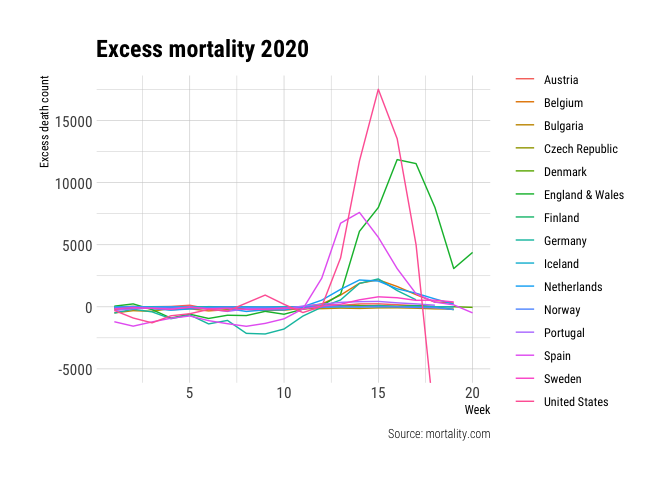
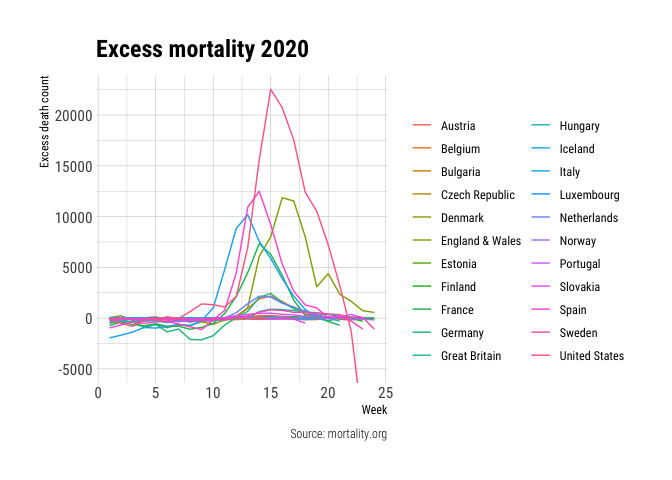
update to HMD article with correct links and recent data

diff --git a/_posts/2020-05-26-Excess-Mortality-in-2020-(COVID-19).md b/_posts/2020-05-26-Excess-Mortality-in-2020-(COVID-19).md
@@ -11,12 +11,15 @@ suspected cases get tested. Another way to measure COVID related deaths
 is to look at official reported **total** deaths. Administrative delays,
 however, make it that reported numbers are only reliable from a few
 weeks in the past. More recent numbers are often missing many deaths.
-The Human Mortality Database ([HMD](www.mortality.com)) provided
+The Human Mortality Database ([HMD](www.mortality.org)) provided
 detailed (yearly) mortality and population data for 41 selected
 countries. Recently, HMD published a dataset containing weekly mortality
 numbers in light of the COVID-19 pandemic. In this article we will
 explore this dataset to obtain insights in excess deaths for different
 countries.
+
+*Note: this article has been updated at the 26th of June. More recent
+data is used which includes more countries.*
 
 ## Load and process data
 
@@ -35,25 +38,17 @@ The data is publicly available and can be loaded into R as
 
 ``` r
 mf_data <- readr::read_csv("https://www.mortality.org/Public/STMF/Outputs/stmf.csv", skip=2)
-mf_data
+knitr::kable(head(mf_data))
 ```
 
-    ## # A tibble: 40,461 x 19
-    ##    CountryCode  Year  Week Sex   D0_14 D15_64 D65_74 D75_84  D85p DTotal   R0_14
-    ##    <chr>       <dbl> <dbl> <chr> <dbl>  <dbl>  <dbl>  <dbl> <dbl>  <dbl>   <dbl>
-    ##  1 AUT          2000     1 m      6.28   184.   211.   237.  176.    814 4.67e-4
-    ##  2 AUT          2000     1 f      5.35   101.   141.   335.  471.   1053 4.18e-4
-    ##  3 AUT          2000     1 b     11.5    285.   355.   573.  643.   1867 4.38e-4
-    ##  4 AUT          2000     2 m      6.58   192.   217.   244.  180.    840 4.89e-4
-    ##  5 AUT          2000     2 f      5.81   109.   141.   335.  471.   1062 4.54e-4
-    ##  6 AUT          2000     2 b     12.2    302.   359.   580.  650.   1902 4.64e-4
-    ##  7 AUT          2000     3 m      7.73   226.   220.   248.  183.    886 5.75e-4
-    ##  8 AUT          2000     3 f      6.11   115.   152.   361.  507.   1141 4.77e-4
-    ##  9 AUT          2000     3 b     13.8    341.   378.   610.  684.   2027 5.25e-4
-    ## 10 AUT          2000     4 m      7.30   214.   217.   245.  181.    864 5.43e-4
-    ## # … with 40,451 more rows, and 8 more variables: R15_64 <dbl>, R65_74 <dbl>,
-    ## #   R75_84 <dbl>, R85p <dbl>, RTotal <dbl>, Split <dbl>, SplitSex <dbl>,
-    ## #   Forecast <dbl>
+| CountryCode | Year | Week | Sex | D0\_14 | D15\_64 | D65\_74 | D75\_84 | D85p | DTotal |    R0\_14 |   R15\_64 |   R65\_74 |   R75\_84 |      R85p |    RTotal | Split | SplitSex | Forecast |
+| :---------- | ---: | ---: | :-- | -----: | ------: | ------: | ------: | ---: | -----: | --------: | --------: | --------: | --------: | --------: | --------: | ----: | -------: | -------: |
+| AUT         | 2000 |    1 | m   |      7 |     183 |     212 |     249 |  163 |    814 | 0.0005204 | 0.0035126 | 0.0376068 | 0.0951375 | 0.2318343 | 0.0109252 |     0 |        0 |        0 |
+| AUT         | 2000 |    1 | f   |      2 |     104 |     141 |     338 |  468 |   1053 | 0.0001562 | 0.0020023 | 0.0195527 | 0.0614423 | 0.2243570 | 0.0132385 |     0 |        0 |        0 |
+| AUT         | 2000 |    1 | b   |      9 |     287 |     353 |     587 |  631 |   1867 | 0.0003428 | 0.0027586 | 0.0274739 | 0.0723052 | 0.2262420 | 0.0121196 |     0 |        0 |        0 |
+| AUT         | 2000 |    2 | m   |      4 |     195 |     195 |     259 |  187 |    840 | 0.0002974 | 0.0037430 | 0.0345912 | 0.0989583 | 0.2659694 | 0.0112741 |     0 |        0 |        0 |
+| AUT         | 2000 |    2 | f   |      6 |     109 |     126 |     312 |  509 |   1062 | 0.0004687 | 0.0020986 | 0.0174727 | 0.0567159 | 0.2440122 | 0.0133516 |     0 |        0 |        0 |
+| AUT         | 2000 |    2 | b   |     10 |     304 |     321 |     571 |  696 |   1902 | 0.0003809 | 0.0029220 | 0.0249834 | 0.0703344 | 0.2495474 | 0.0123468 |     0 |        0 |        0 |
 
 The dataset contains multiple variables for the death counts for
 different age groups (starting with `D`) and the death rate (starting
@@ -82,33 +77,34 @@ mf_data <- mf_data %>%
       DEUTNP = "Germany",
       DNK = "Denmark",
       ESP = "Spain",
+      EST = "Estonia",
       FIN = "Finland",
+      FRATNP = "France",
       GBRTENW = "England & Wales",
+      GBR_SCO = "Great Britain",
+      HUN = "Hungary",
       ISL = "Iceland",
+      ITA = "Italy",
+      LUX = "Luxembourg",
       NLD = "Netherlands",
       NOR = "Norway",
       PRT = "Portugal",
+      SVK = "Slovakia",
       SWE = "Sweden",
       USA = "United States")
   ) %>%
   select(age_group, country, year, sex, week, death_count, death_rate)
-mf_data
+knitr::kable(head(mf_data))
 ```
 
-    ## # A tibble: 1,456,596 x 7
-    ##    age_group country  year sex     week death_count death_rate
-    ##    <chr>     <chr>   <dbl> <chr>  <dbl>       <dbl>      <dbl>
-    ##  1 0-14      Austria  2000 male       1        6.28   0.000467
-    ##  2 0-14      Austria  2000 female     1        5.35   0.000418
-    ##  3 0-14      Austria  2000 both       1       11.5    0.000438
-    ##  4 0-14      Austria  2000 male       2        6.58   0.000489
-    ##  5 0-14      Austria  2000 female     2        5.81   0.000454
-    ##  6 0-14      Austria  2000 both       2       12.2    0.000464
-    ##  7 0-14      Austria  2000 male       3        7.73   0.000575
-    ##  8 0-14      Austria  2000 female     3        6.11   0.000477
-    ##  9 0-14      Austria  2000 both       3       13.8    0.000525
-    ## 10 0-14      Austria  2000 male       4        7.30   0.000543
-    ## # … with 1,456,586 more rows
+| age\_group | country | year | sex    | week | death\_count | death\_rate |
+| :--------- | :------ | ---: | :----- | ---: | -----------: | ----------: |
+| 0-14       | Austria | 2000 | male   |    1 |            7 |   0.0005204 |
+| 0-14       | Austria | 2000 | female |    1 |            2 |   0.0001562 |
+| 0-14       | Austria | 2000 | both   |    1 |            9 |   0.0003428 |
+| 0-14       | Austria | 2000 | male   |    2 |            4 |   0.0002974 |
+| 0-14       | Austria | 2000 | female |    2 |            6 |   0.0004687 |
+| 0-14       | Austria | 2000 | both   |    2 |           10 |   0.0003809 |
 
 ## Total excess deaths by country
 
@@ -135,11 +131,11 @@ plot_data %>%
   facet_wrap(~country, ncol=3, scales="free_y") +
   scale_color_manual(values=colour_pal) + 
   labs(x="Week", y="Death count", title="Excess mortality 2020", 
-       caption="Source: mortality.com") +
+       caption="Source: mortality.org") +
   theme_ipsum_rc()
 ```
 
-![png]({{ site.baseurl }}/images/hmd-covid-2020/total-excess-fig-1.png)
+![png]({{ site.baseurl }}/images/hmd-covid-2020/total-excess-fig-1.png")
 
 A few things stand out from this figure besides the COVID-19 mortality
 trends. First, larger countries show trends that are more smoooth than
@@ -197,11 +193,11 @@ excess_deaths %>%
   geom_line() +
   coord_cartesian(ylim=c(-5000, NA)) + 
   labs(x="Week", y="Excess death count", title="Excess mortality 2020", 
-       caption="Source: mortality.com", colour="") +
+       caption="Source: mortality.org", colour="") +
   theme_ipsum_rc()
 ```
 
-![png]({{ site.baseurl }}/images/hmd-covid-2020/excess-deaths-countries-1.png)
+![png]({{ site.baseurl }}/images/hmd-covid-2020/excess-deaths-countries-1.png")
 
 This figure further supports the claim that the reported mortality data
 of the USA is incomplete (it does not show the even larger negative
@@ -214,12 +210,12 @@ suffering.
 
 Instead of the total excess we also compute a standardised excess death
 measure by dividing the excess deaths by the historic mortality data
-from 2015 to 2019. Furthermore, we remove the data from week 18 onwards
+from 2015 to 2019. Furthermore, we remove the data from week 23 onwards
 for the USA, since this is clearly incomplete.
 
 ``` r
 excess_deaths_filter_US <- excess_deaths %>%
-  filter(!(country == "United States" & week >= 18))
+  filter(!(country == "United States" & week >= 23))
 
 excess_deaths_filter_US %>% 
   filter(sex == "both", age_group == "-total") %>%
@@ -227,11 +223,11 @@ excess_deaths_filter_US %>%
   geom_line() +
   scale_y_continuous(labels = scales::percent_format()) +
   labs(x="Week", y="Standardised excess death count", title="Standardised excess mortality 2020", 
-       caption="Source: mortality.com", colour="") +
+       caption="Source: mortality.org", colour="") +
   theme_ipsum_rc()
 ```
 
-![png]({{ site.baseurl }}/images/hmd-covid-2020/std-excess-deaths-1.png)
+![png]({{ site.baseurl }}/images/hmd-covid-2020/std-excess-deaths-1.png")
 
 This figure tells a very different story. While England is showing a
 high excess mortality in absolute numbers and relative numbers,
@@ -278,11 +274,11 @@ excess_deaths_sex %>%
   scale_y_continuous(labels = scales::percent_format()) +
   scale_colour_ipsum() +
   labs(x="Week", y="Standardised excess death count", title="Excess mortality by sex 2020", 
-       caption="Source: mortality.com", colour="Sex") +
+       caption="Source: mortality.org", colour="Sex") +
   theme_ipsum_rc()
 ```
 
-![png]({{ site.baseurl }}/images/hmd-covid-2020/comparison-sexes-all-1.png)
+![png]({{ site.baseurl }}/images/hmd-covid-2020/comparison-sexes-all-1.png")
 
 Interestingly, it seems that the excess mortality data for men and women
 look similar but are shifted by one week. The peak for men seems to
@@ -305,11 +301,11 @@ excess_deaths_sex %>%
   scale_y_continuous(labels = scales::percent_format()) +
   scale_colour_ipsum() +
   labs(x="Week", y="Standardised excess death count", title="Excess mortality by age group 2020", 
-       caption="Source: mortality.com", colour="Age group") +
+       caption="Source: mortality.org", colour="Age group") +
   theme_ipsum_rc()
 ```
 
-![png]({{ site.baseurl }}/images/hmd-covid-2020/age-groups-1.png)
+![png]({{ site.baseurl }}/images/hmd-covid-2020/age-groups-1.png")
 
 The data is quite telling: excess mortality increases with age. I
 omitted the data for the age group of 0-14, because of the large
@@ -323,18 +319,20 @@ size and therefore heavily fluctuating mortality data.
 excess_deaths_filter_US %>%
   filter(sex != "both", age_group %in% c("15-64", "65-74", "75-84", "85+"), week >= 10,
          country != "Iceland") %>%
-  ggplot(aes(x=week, y=excess_death_std, colour=country)) +
+  mutate(is_UK = if_else(country == "England & Wales", TRUE, FALSE)) %>%
+  ggplot(aes(x=week, y=excess_death_std, colour=is_UK, group=country)) +
   geom_line() +
-  geom_vline(aes(xintercept=last_full_week), linetype="dashed") + 
   facet_grid(age_group ~ sex) +
   scale_y_continuous(labels=scales::percent_format()) +
   scale_x_continuous(breaks=seq(10, 20, 2)) +
+  scale_colour_manual(values=colour_pal) + 
   labs(x="Week", y="Standardised excess death count", title="Excess mortality dissected by sex and age", 
-       caption="Source: mortality.com", colour="Age group") +
-  theme_ipsum_rc()
+       caption="Source: mortality.org", colour="Age group") +
+  theme_ipsum_rc() +
+  theme(legend.position = "none")
 ```
 
-![png]({{ site.baseurl }}/images/hmd-covid-2020/age-sex-groups-1.png)
+![png]({{ site.baseurl }}/images/hmd-covid-2020/age-sex-groups-1.png")
 
 This figure is the most surprising to me. All others figures confirm
 from what I have read so far with increasing and then decreasing excess
